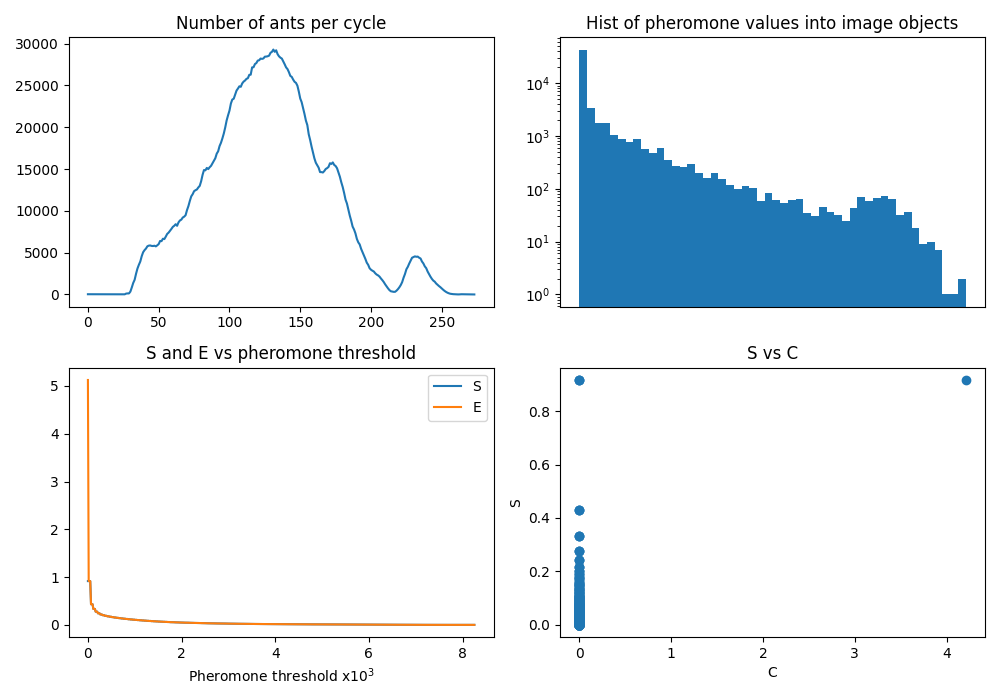
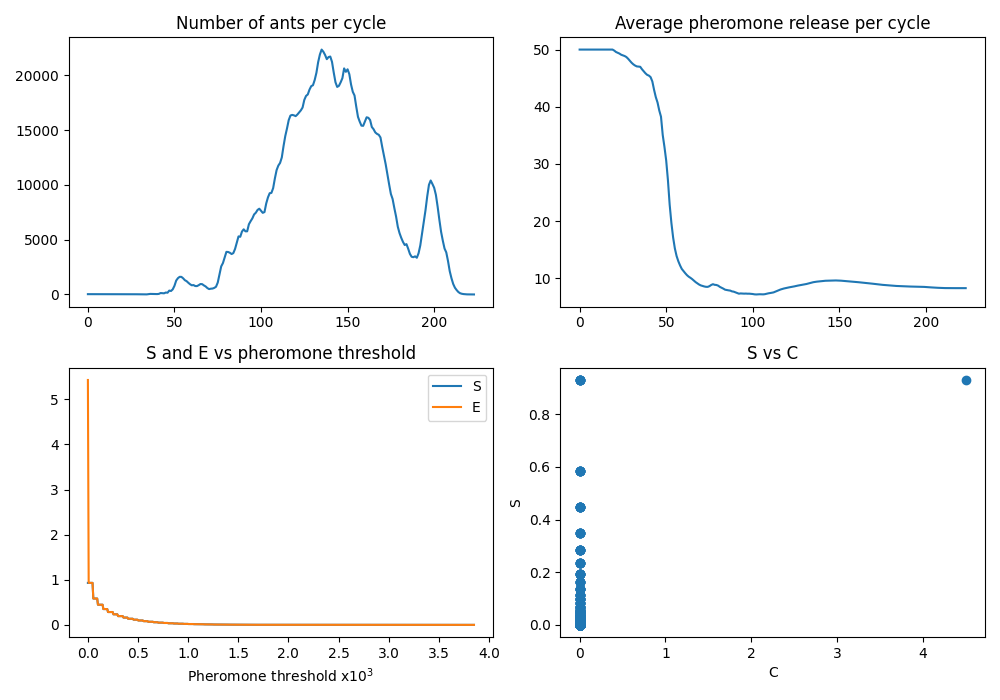
minor

diff --git a/src/main.py b/src/main.py
@@ -213,9 +213,9 @@ def pool_initializer(pheromone_matrix_shared, pheromone_matrix_shape):
     np_x_shape = pheromone_matrix_shape
 
 
-def statistics(ants_number, args_parser, image_matrix, pheromone_matrix):
+def statistics(ants_number, args_parser, mean_array, image_matrix, pheromone_matrix):
     """Provides statistics about the run such as: the number of image voxels,
-    the number of voxels visited by the ants, the visited voxels which are also part 
+    the number of voxels visited by the ants, the visited voxels which are also part
     of the image voxels and the respective number of visits. It also provides the
     algorithm evaluation metrics such as sensitivity, exploration and
     contamination level (defined in the documentation) as functions
@@ -292,10 +292,12 @@ def statistics(ants_number, args_parser, image_matrix, pheromone_matrix):
     _, ax = plt.subplots(2, 2, figsize=(10, 7))
     ax[0][0].plot(ants_number)
     ax[0][0].set_title("Number of ants per cycle")
-    ax[0][1].hist(common_dict.values(), bins=50)
-    ax[0][1].set_title("Hist of pheromone values into image objects")
-    ax[0][1].set_yscale("log")
-    ax[0][1].set_xticks([])
+    # ax[0][1].hist(common_dict.values(), bins=50)
+    # ax[0][1].set_title("Hist of pheromone values into image objects")
+    # ax[0][1].set_yscale("log")
+    # ax[0][1].set_xticks([])
+    ax[0][1].plot(mean_array)
+    ax[0][1].set_title("Average pheromone release per cycle")
     ax[1][0].plot(pheromone_threshold / 1000, sensitivity, label="S")
     ax[1][0].plot(pheromone_threshold / 1000, expl_level, label="E")
     ax[1][0].set_xlabel("Pheromone threshold x$10^3$")
@@ -342,7 +344,9 @@ def set_image_and_pheromone(args_parser):
     a_ratio = {"axial": 1, "sagittal": 1, "coronal": 1}
     if args_parser.cmd == "dicom":
         extrema = [168, 415, 284, 460, 257, 277]
-        image_matrix, a_ratio = ImageData.image_from_file(args_parser.file_path, extrema)
+        image_matrix, a_ratio = ImageData.image_from_file(
+            args_parser.file_path, extrema
+        )
         imagedata = ImageData(image_matrix.shape)
     elif args_parser.cmd == "cube":
         imagedata = ImageData(args_parser.matrix_dimensions)
@@ -356,8 +360,9 @@ def set_image_and_pheromone(args_parser):
         )
     elif args_parser.cmd == "donut":
         imagedata = ImageData(args_parser.matrix_dimensions)
-        image_matrix = imagedata.create_donut(args_parser.center_coordinates, args_parser.radius)
-
+        image_matrix = imagedata.create_donut(
+            args_parser.center_coordinates, args_parser.radius
+        )
 
     pheromone_map_init_ = imagedata.initialize_pheromone_map()
     global np_x_shape
@@ -399,9 +404,15 @@ if __name__ == "__main__":
         metavar="int",
     )
     subparsers = parser.add_subparsers(help="sub-command help", dest="cmd")
-    parser_path = subparsers.add_parser("dicom", help="Returns an image from a DICOM folder.")
+    parser_path = subparsers.add_parser(
+        "dicom", help="Returns an image from a DICOM folder."
+    )
     parser_path.add_argument(
-        "-f", "--file_path", help="The DICOM folder path.", type=str, metavar="str",
+        "-f",
+        "--file_path",
+        help="The DICOM folder path.",
+        type=str,
+        metavar="str",
     )
     parser_cube = subparsers.add_parser(
         "cube", help="Returns a cube as the image matrix."
@@ -495,10 +506,11 @@ if __name__ == "__main__":
     np.copyto(pheromone_map, pheromone_map_init)
 
     n_iteration = 0
-    energy_death = 0.3
-    energy_reproduction = 1.25
+    energy_death = 1.
+    energy_reproduction = 1.3
     ant_number = []
     pheromone_mean_sum = 0
+    pheromone_mean_array = []
     colony_length = 0
 
     ant_colony, anthill_position = set_colony(args.anthill_coordinates, image)
@@ -521,6 +533,7 @@ if __name__ == "__main__":
         colony_length += len(ant_colony)
         pheromone_mean_sum += sum(released_pheromone)
         pheromone_mean = pheromone_mean_sum / colony_length
+        pheromone_mean_array.append(pheromone_mean)
 
         for i, ant in enumerate(ant_colony):
             if len(next_voxel[i]) == 0:
@@ -595,6 +608,6 @@ if __name__ == "__main__":
         f"Elapsed time: {(time.perf_counter() - start_time_local) / 60:.3f} min\n"
     )
 
-    statistics(ant_number, args, image, pheromone_map[..., 0])
+    statistics(ant_number, args, pheromone_mean_array, image, pheromone_map[..., 0])
     plot_display(aspect_ratio, image, pheromone_map[..., 0], anthill_position)
     plt.show()

diff --git a/src/ant_constructor.py b/src/ant_constructor.py
@@ -277,8 +277,8 @@ class Ant:
             valid_first_neighbours = np.delete(
                 valid_first_neighbours, occupied_indexes, axis=0
             )
-        if valid_first_neighbours.shape[0] == 0:
-            return []
+            if valid_first_neighbours.shape[0] == 0:
+                return []
         W_PROBABILITY = (
             1.0
             + pheromone_map[
